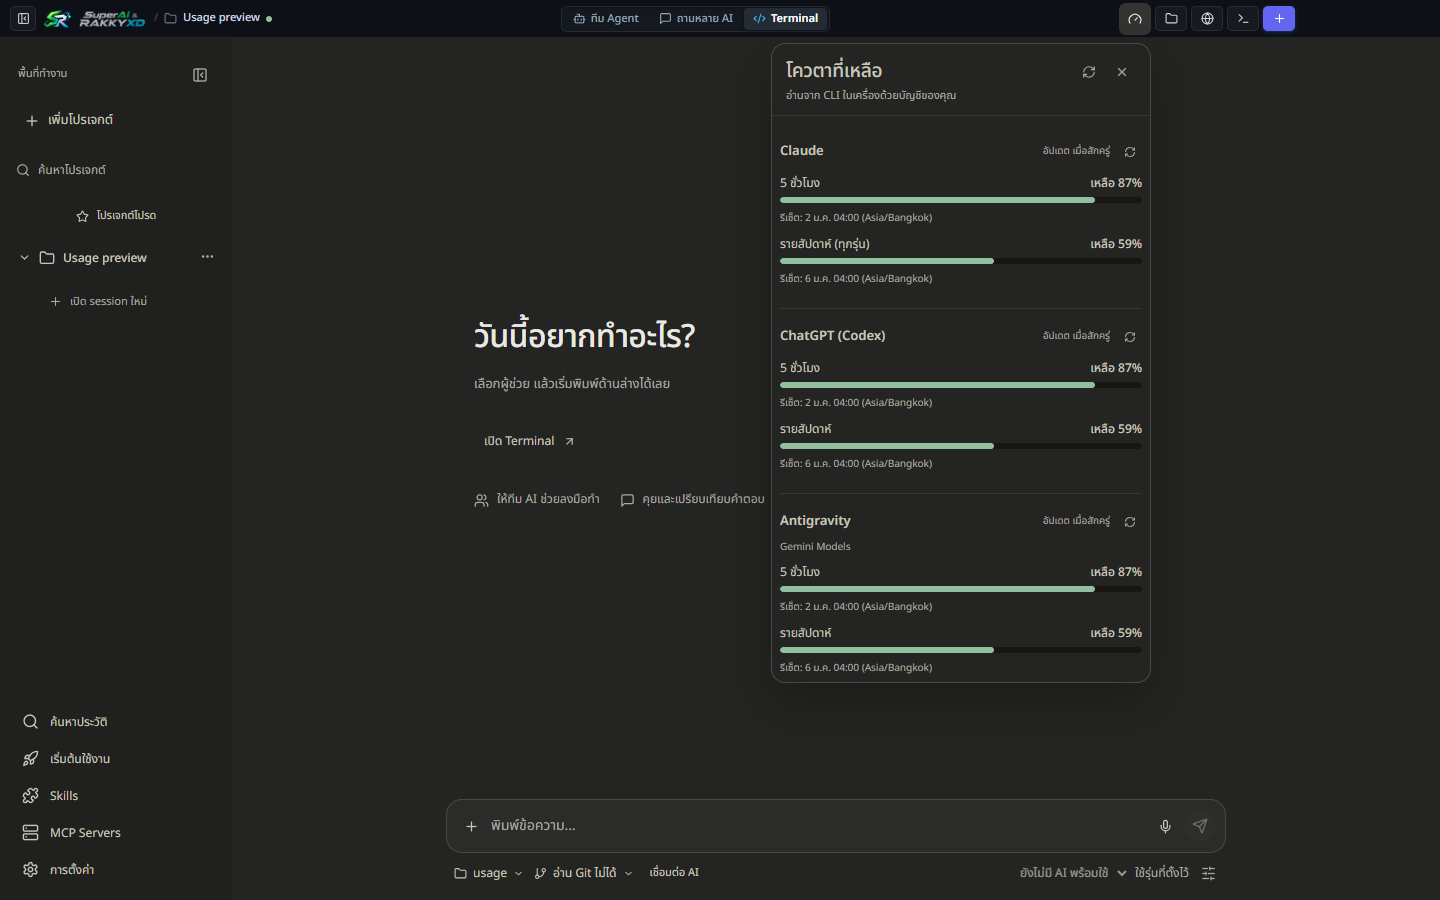
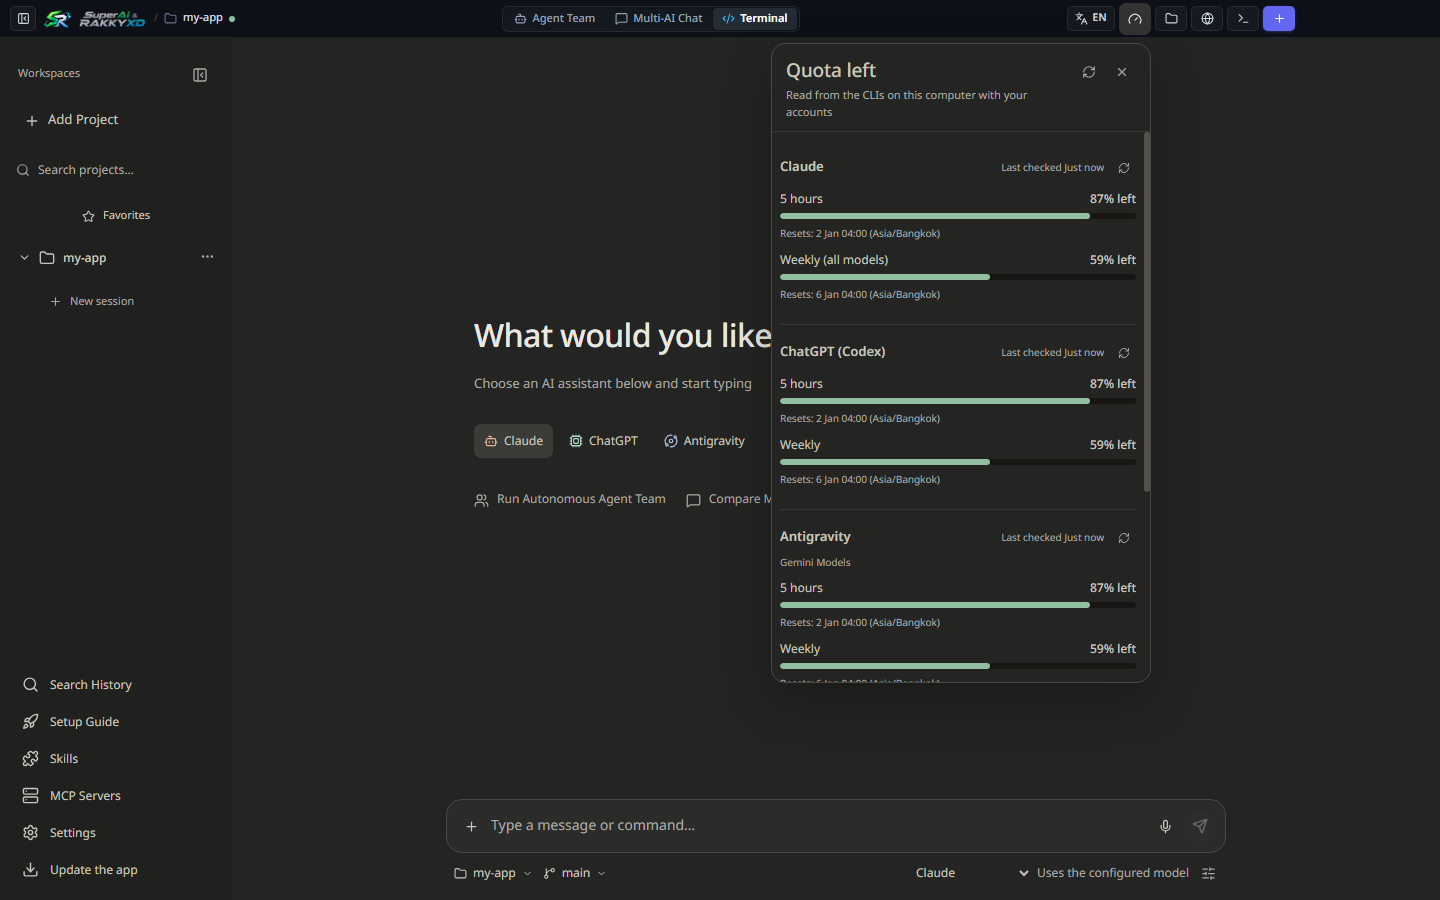
feat(i18n): English release notes, English screenshots, dates in the app language
- Release notes: each version is English, then "## ภาษาไทย" and the Thai notes. The update card
  shows the part in the app language; older apps show both. Added the v1.2.4 notes.
- README and website screenshots retaken from the real app in English; the Thai README and
  th.html use Thai ones in docs/images/th. scripts/readme-screenshots.mjs retakes them.
- Dates and times no longer always use Thai months: they follow the app language.
- "1 runs" reads "1 run".
- Speak-to-type defaults to the multilingual model outside the Thai app.

diff --git a/docs/th.html b/docs/th.html
@@ -19,7 +19,7 @@
 <meta property="og:title" content="SuperAi &amp; RAKKYXD — รวม AI coding tools ไว้ใน workspace เดียว">
 <meta property="og:description" content="โปรแกรม Desktop แบบ local-first สำหรับทำงานกับ AI coding assistants, Agent และโปรเจกต์">
 <meta property="og:url" content="https://rakgoorak.github.io/SuperAi-RAKKYXD/th.html">
-<meta property="og:image" content="https://rakgoorak.github.io/SuperAi-RAKKYXD/images/workspace.png">
+<meta property="og:image" content="https://rakgoorak.github.io/SuperAi-RAKKYXD/images/th/workspace.png">
 <meta property="og:image:type" content="image/png">
 <meta property="og:image:width" content="1280">
 <meta property="og:image:height" content="800">
@@ -27,7 +27,7 @@
 <meta name="twitter:card" content="summary_large_image">
 <meta name="twitter:title" content="SuperAi &amp; RAKKYXD — รวม AI coding tools ไว้ใน workspace เดียว">
 <meta name="twitter:description" content="โปรแกรม Desktop แบบโอเพนซอร์สสำหรับรวม AI coding tools ไว้ในที่เดียว">
-<meta name="twitter:image" content="https://rakgoorak.github.io/SuperAi-RAKKYXD/images/workspace.png">
+<meta name="twitter:image" content="https://rakgoorak.github.io/SuperAi-RAKKYXD/images/th/workspace.png">
 <meta name="twitter:image:alt" content="หน้าหลักของ SuperAi &amp; RAKKYXD">
 <meta name="theme-color" content="#242422">
 <link rel="icon" href="images/app-icon.png">
@@ -51,9 +51,9 @@
   "downloadUrl": "https://github.com/rakgoorak/SuperAi-RAKKYXD-releases/releases/latest",
   "license": "https://github.com/rakgoorak/SuperAi-RAKKYXD/blob/main/LICENSE",
   "screenshot": [
-    "https://rakgoorak.github.io/SuperAi-RAKKYXD/images/workspace.png",
-    "https://rakgoorak.github.io/SuperAi-RAKKYXD/images/agent.png",
-    "https://rakgoorak.github.io/SuperAi-RAKKYXD/images/chat.png"
+    "https://rakgoorak.github.io/SuperAi-RAKKYXD/images/th/workspace.png",
+    "https://rakgoorak.github.io/SuperAi-RAKKYXD/images/th/agent.png",
+    "https://rakgoorak.github.io/SuperAi-RAKKYXD/images/th/chat.png"
   ],
   "publisher": {
     "@type": "Organization",
@@ -147,8 +147,8 @@
 
     <figure class="hero-media">
       <picture>
-        <source media="(prefers-reduced-motion: reduce)" srcset="images/workspace.png">
-        <img src="images/product-tour.gif" alt="ภาพสาธิตหน้าจอ workspace, ทีม Agent และ Multi-AI Chat ของ SuperAi & RAKKYXD" width="1120" height="792" fetchpriority="high">
+        <source media="(prefers-reduced-motion: reduce)" srcset="images/th/workspace.png">
+        <img src="images/th/product-tour.gif" alt="ภาพสาธิตหน้าจอ workspace, ทีม Agent และ Multi-AI Chat ของ SuperAi & RAKKYXD" width="1120" height="792" fetchpriority="high">
       </picture>
       <figcaption><span>หน้าจอจริงจากโปรแกรม</span><span>Workspace · Agent · Chat</span></figcaption>
     </figure>
@@ -203,11 +203,11 @@
       </div>
       <div class="screen-pair">
         <figure class="screen">
-          <img src="images/agent.png" alt="หน้า Agent แสดง Main Agent และความคืบหน้าของงานจาก Sub-agents" width="1280" height="800" loading="lazy">
+          <img src="images/th/agent.png" alt="หน้า Agent แสดง Main Agent และความคืบหน้าของงานจาก Sub-agents" width="1280" height="800" loading="lazy">
           <figcaption>ติดตามความคืบหน้าของทีม Agent ได้ระหว่างทำงาน</figcaption>
         </figure>
         <figure class="screen">
-          <img src="images/chat.png" alt="หน้าต่าง Multi-AI Chat พร้อมระบุผู้ตอบแต่ละโมเดล" width="1100" height="760" loading="lazy">
+          <img src="images/th/chat.png" alt="หน้าต่าง Multi-AI Chat พร้อมระบุผู้ตอบแต่ละโมเดล" width="1100" height="760" loading="lazy">
           <figcaption>เปรียบเทียบคำตอบโดยรู้ว่าโมเดลใดเป็นผู้เขียน</figcaption>
         </figure>
       </div>
@@ -220,7 +220,7 @@
       </div>
       <div class="capability-layout">
         <figure class="usage-screen">
-          <img src="images/usage.png" alt="หน้าจอแสดงการใช้งานและโควตาของผู้ให้บริการใน SuperAi & RAKKYXD" width="1440" height="900" loading="lazy">
+          <img src="images/th/usage.png" alt="หน้าจอแสดงการใช้งานและโควตาของผู้ให้บริการใน SuperAi & RAKKYXD" width="1440" height="900" loading="lazy">
           <figcaption>รายละเอียดการใช้งานขึ้นอยู่กับผู้ให้บริการและบัญชีที่เลือก</figcaption>
         </figure>
         <ul class="capability-list">

diff --git a/packages/studio/client/src/i18n.ts b/packages/studio/client/src/i18n.ts
@@ -83,6 +83,7 @@ export const translations: Record<Locale, Record<string, string>> = {
     // Canvas & Empty States
     'canvas.workspace_room': 'ห้องทำงาน',
     'canvas.tasks_unit': 'งาน',
+    'canvas.tasks_unit_one': 'งาน',
     'canvas.running_unit': 'กำลังทำงาน',
     'canvas.agent_empty_title': 'บอกเป้าหมาย แล้วให้ทีมแบ่งงานกันทำ',
     'canvas.agent_empty_desc': 'พิมพ์เป้าหมายและเกณฑ์ตรวจรับด้านล่าง Main จะแจกงานให้ Sub-agent และคุณจะเห็นว่าแต่ละตัวกำลังทำอะไร',
@@ -219,6 +220,7 @@ export const translations: Record<Locale, Record<string, string>> = {
     // Canvas & Empty States
     'canvas.workspace_room': 'Workspace',
     'canvas.tasks_unit': 'runs',
+    'canvas.tasks_unit_one': 'run',
     'canvas.running_unit': 'running',
     'canvas.agent_empty_title': 'Describe your goal and let the AI Team divide & conquer',
     'canvas.agent_empty_desc': 'Enter your objective below. The Main planner delegates tasks to Sub-agents while you track live progress.',
@@ -355,6 +357,7 @@ export const translations: Record<Locale, Record<string, string>> = {
     // Canvas & Empty States
     'canvas.workspace_room': 'ワークスペース',
     'canvas.tasks_unit': '件',
+    'canvas.tasks_unit_one': '件',
     'canvas.running_unit': '実行中',
     'canvas.agent_empty_title': '目標を伝えて、AIチームにタスクを分担させましょう',
     'canvas.agent_empty_desc': '下に目標を入力すると、MainがSub-agentに作業を割り振り、進行状況をリアルタイム表示します。',
@@ -491,6 +494,7 @@ export const translations: Record<Locale, Record<string, string>> = {
     // Canvas & Empty States
     'canvas.workspace_room': '工作室',
     'canvas.tasks_unit': '项任务',
+    'canvas.tasks_unit_one': '项任务',
     'canvas.running_unit': '正在运行',
     'canvas.agent_empty_title': '输入目标，让 AI 团队自动拆解并协作完成',
     'canvas.agent_empty_desc': '在下方输入需求，主智能体 (Main) 会分配任务给子智能体 (Sub-agents) 并实时展示进度。',
@@ -614,6 +618,12 @@ void tellServer();
 
 export function getLocale(): Locale {
   return currentLocale;
+}
+
+const DATE_LOCALE: Record<Locale, string> = { th: 'th-TH', en: 'en-US', ja: 'ja-JP', zh: 'zh-CN' };
+/** For toLocale*String and Intl.DateTimeFormat: dates and times in the window's language. */
+export function dateLocale(): string {
+  return DATE_LOCALE[currentLocale];
 }
 
 /**

diff --git a/packages/studio/client/src/App.tsx b/packages/studio/client/src/App.tsx
@@ -6,7 +6,7 @@ import { RunActions } from "./components/RunActions";
 import { SlashMenu, type SlashMenuHandle } from "./components/SlashMenu";
 import { MentionMenu, type MentionMenuHandle } from "./components/MentionMenu";
 import { CommandPalette } from "./components/CommandPalette";
-import { useTranslation } from "./i18n";
+import { useTranslation, dateLocale } from "./i18n";
 import { useCallback, useEffect, useRef, useState } from "react";
 import {
   Folder,
@@ -1375,7 +1375,7 @@ export function App() {
                   <span className="count-badge">
                     {mode === "code"
                       ? `${visible.length} session`
-                      : `${conversation.length} ${t("canvas.tasks_unit", "งาน")}`}
+                      : `${conversation.length} ${t(conversation.length === 1 ? "canvas.tasks_unit_one" : "canvas.tasks_unit", "งาน")}`}
                   </span>
                   {mode === "code" && hiddenInWorkspace.length > 0 && (
                     <div className="hidden-sessions-bar" role="group" aria-label={tr("session ที่ซ่อนอยู่")}>
@@ -1502,7 +1502,7 @@ export function App() {
                           <span className="message-author">
                             {tr("คุณ")}{" "}
                             <time>
-                              {new Date(run.createdAt).toLocaleTimeString("th-TH", { hour: "2-digit", minute: "2-digit" })}
+                              {new Date(run.createdAt).toLocaleTimeString(dateLocale(), { hour: "2-digit", minute: "2-digit" })}
                             </time>
                           </span>
                           <p>{renderTextWithLinks(run.prompt)}</p>

diff --git a/packages/studio/client/src/components/HistoryPanel.tsx b/packages/studio/client/src/components/HistoryPanel.tsx
@@ -5,7 +5,7 @@ import { HEADLESS } from '../providers';
 import { chatHistoryEntries, recentConversations, runHistoryEntries, type HistoryEntry, type HistoryMessage } from '../historyEntries';
 import { providerIdentity } from '../providerIdentity';
 import { ProviderBadge } from './ProviderBadge';
-import { tr } from '../i18n';
+import { tr, dateLocale } from '../i18n';
 export type { HistoryEntry } from '../historyEntries';
 
 export function HistoryPanel({ workspaces, sessions, onSelect }: { workspaces: Workspace[]; sessions: Session[]; onSelect: (entry: HistoryEntry) => void }) {
@@ -52,7 +52,7 @@ export function HistoryPanel({ workspaces, sessions, onSelect }: { workspaces: W
     <div className="history-results">{matches.slice(0, 100).map(entry => {
       const start = needle ? Math.max(0, entry.snippet.toLowerCase().indexOf(needle) - 60) : 0;
       return <button key={`${entry.wsId}:${entry.sessionId || ''}:${entry.id}`} onClick={() => onSelect(entry)}>
-        <small>{workspaces.find(ws => ws.id === entry.wsId)?.name} · {modeLabels[entry.mode]} · {new Date(entry.at).toLocaleString('th-TH')}</small>
+        <small>{workspaces.find(ws => ws.id === entry.wsId)?.name} · {modeLabels[entry.mode]} · {new Date(entry.at).toLocaleString(dateLocale())}</small>
         <strong>{needle ? entry.text : entry.title || entry.text}</strong>
         <span className="history-providers">{entry.providers.map(id => <ProviderBadge key={id} provider={id} />)}</span>
         <span>{entry.snippet.slice(start, start + 180) || entry.text}</span>

diff --git a/packages/studio/test/release-notes.test.ts b/packages/studio/test/release-notes.test.ts
@@ -1,0 +1,21 @@
+import { test } from 'node:test';
+import assert from 'node:assert/strict';
+import fs from 'node:fs';
+import { notesInLanguage } from '../client/src/releaseNotes.js';
+
+const notes = '- **Faster chat:** answers appear sooner\n\n## ภาษาไทย\n\n- **แชทเร็วขึ้น:** คำตอบขึ้นเร็วขึ้น';
+
+test('the update card shows release notes in the app language', () => {
+  assert.equal(notesInLanguage(notes, 'en'), '- **Faster chat:** answers appear sooner');
+  assert.equal(notesInLanguage(notes, 'ja'), '- **Faster chat:** answers appear sooner');
+  assert.equal(notesInLanguage(notes, 'th'), '- **แชทเร็วขึ้น:** คำตอบขึ้นเร็วขึ้น');
+  assert.equal(notesInLanguage('- เดิมมีแต่ภาษาไทย', 'en'), '- เดิมมีแต่ภาษาไทย', 'older notes without the heading are shown whole');
+});
+
+test('the newest release notes have an English part and a Thai part', () => {
+  const newest = fs.readFileSync(new URL('../../../docs/RELEASE.md', import.meta.url), 'utf8').split(/^---\s*$/m)[0];
+  const english = notesInLanguage(newest, 'en'), thai = notesInLanguage(newest, 'th');
+  assert.notEqual(english, thai, 'docs/RELEASE.md: add "## ภาษาไทย" between the English and Thai notes');
+  assert.doesNotMatch(english.replace(/^#.*$/gm, ''), /[฀-๿]/, 'the English part has no Thai text');
+  assert.match(thai, /[฀-๿]/);
+});

diff --git a/packages/studio/client/src/components/UpdatePanel.tsx b/packages/studio/client/src/components/UpdatePanel.tsx
@@ -2,7 +2,8 @@ import { useCallback, useEffect, useState } from "react";
 import { Check, Download, ExternalLink, LoaderCircle, RefreshCw, RotateCw, X } from "lucide-react";
 import type { UpdateState } from "../desktop";
 import { Markdown } from "./Markdown";
-import { t } from "../i18n";
+import { t, getLocale } from "../i18n";
+import { notesInLanguage } from "../releaseNotes";
 import { tr } from '../i18n';
 
 /** Live update state from the desktop shell; null in the browser UI (no updater there). */
@@ -89,7 +90,7 @@ export function UpdatePanel({ state, onError }: { state: UpdateState | null; onE
       {state.notes && s === "available" && (
         <details className="update-notes" open>
           <summary>{tr("มีอะไรใหม่ใน v")}{state.latestVersion}</summary>
-          <Markdown text={state.notes} />
+          <Markdown text={notesInLanguage(state.notes, getLocale())} />
         </details>
       )}
       <div className="update-actions">
@@ -132,7 +133,7 @@ export function UpdatePanel({ state, onError }: { state: UpdateState | null; onE
       {state.notes && pending(s) && (
         <details className="update-notes" open>
           <summary>{tr("มีอะไรใหม่ใน v")}{state.latestVersion}</summary>
-          <Markdown text={state.notes} />
+          <Markdown text={notesInLanguage(state.notes, getLocale())} />
         </details>
       )}
       <div className="update-actions">

diff --git a/packages/studio/client/src/chatFormat.ts b/packages/studio/client/src/chatFormat.ts
@@ -1,4 +1,4 @@
-import { tr } from './i18n';
+import { tr, dateLocale } from './i18n';
 // Labels shared by the chat view and its message actions.
 
 /** "เมื่อสักครู่", "5 นาทีที่แล้ว", "14:32" or "23 ต.ค. 14:32", like Claude's message times. */
@@ -7,8 +7,8 @@ export function timeLabel(at: number, now = Date.now()): string {
   if (seconds < 60) return tr("เมื่อสักครู่");
   if (seconds < 3600) return tr`${Math.floor(seconds / 60)} นาทีที่แล้ว`;
   const date = new Date(at), today = new Date(now);
-  const clock = date.toLocaleTimeString('th-TH', { hour: '2-digit', minute: '2-digit' });
-  return date.toDateString() === today.toDateString() ? clock : `${date.toLocaleDateString('th-TH', { day: 'numeric', month: 'short' })} ${clock}`;
+  const clock = date.toLocaleTimeString(dateLocale(), { hour: '2-digit', minute: '2-digit' });
+  return date.toDateString() === today.toDateString() ? clock : `${date.toLocaleDateString(dateLocale(), { day: 'numeric', month: 'short' })} ${clock}`;
 }
 
 /** 950 → "950", 1234 → "1.2k", like Claude's live token count. */

diff --git a/packages/studio/client/src/usageDisplay.ts b/packages/studio/client/src/usageDisplay.ts
@@ -1,4 +1,4 @@
-import { tr } from './i18n';
+import { tr, dateLocale } from './i18n';
 export interface UsageWindow {
   label: string; group?: string; remainingPercent: number | null;
   resetsAt?: string; resetsText?: string; note?: string;
@@ -16,7 +16,7 @@ export function usageResetLabel(w: UsageWindow, now = Date.now(), zone = Intl.Da
   if (w.resetsAt && Number.isFinite(Date.parse(w.resetsAt))) {
     const at = new Date(w.resetsAt);
     if (at.getTime() <= now) return tr("รีเซ็ตแล้ว");
-    const parts = new Intl.DateTimeFormat('th-TH', {
+    const parts = new Intl.DateTimeFormat(dateLocale(), {
       timeZone: zone, day: 'numeric', month: 'short', hour: '2-digit', minute: '2-digit', hourCycle: 'h23',
     }).formatToParts(at);
     const part = (type: Intl.DateTimeFormatPartTypes) => parts.find(p => p.type === type)?.value || '';

diff --git a/packages/studio/client/src/voice/speech.ts b/packages/studio/client/src/voice/speech.ts
@@ -1,4 +1,5 @@
 import { SPEECH_MODELS, type SpeechModelId } from "./models";
+import { getLocale } from "../i18n";
 
 // Settings for speak-to-type (the composer mic).
 export interface VoiceSettings {
@@ -8,7 +9,11 @@ export interface VoiceSettings {
 }
 
 const KEY = "superai-voice-settings";
-export const defaultVoiceSettings: VoiceSettings = { model: "thai", language: "th", microphone: "" };
+// Thai app: the Thai-tuned model; other languages: the multilingual model, listening for that language.
+const locale = getLocale();
+export const defaultVoiceSettings: VoiceSettings = locale === "th"
+  ? { model: "thai", language: "th", microphone: "" }
+  : { model: "small", language: locale === "en" ? "en" : "auto", microphone: "" };
 
 export function loadVoiceSettings(): VoiceSettings {
   try {

diff --git a/packages/studio/client/src/releaseNotes.ts b/packages/studio/client/src/releaseNotes.ts
@@ -1,0 +1,15 @@
+/**
+ * Release notes are written in English first, then a `## ภาษาไทย` heading and the same notes in
+ * Thai (see docs/RELEASE.md). The update card shows only the part in the window's language:
+ * Thai for the Thai app, English for the others. Notes without the heading are shown whole.
+ * Older apps simply show both parts, one after the other.
+ */
+const THAI_HEADING = /^##\s*ภาษาไทย\s*$/m;
+
+export function notesInLanguage(notes: string, locale: string): string {
+  const at = notes.search(THAI_HEADING);
+  if (at < 0) return notes;
+  const english = notes.slice(0, at).trim();
+  const thai = notes.slice(at).replace(THAI_HEADING, '').trim();
+  return (locale === 'th' ? thai || english : english || thai);
+}

diff --git a/packages/studio/client/src/components/ChatView.tsx b/packages/studio/client/src/components/ChatView.tsx
@@ -24,7 +24,7 @@ import { loadNextPromptSettings, predictNextPrompt, publishChatRunning, publishN
 import '../chat-idle.css';
 import '../chat-permission.css';
 import '../chat-task-progress.css';
-import { tr } from '../i18n';
+import { tr, dateLocale } from '../i18n';
 
 // Mirrors server/CliChat.ts.
 type ToolKind = 'command' | 'read' | 'edit' | 'search' | 'web' | 'plan' | 'other';
@@ -251,7 +251,7 @@ function UserMessageItem({
             <time
               className="chat-user-time"
               dateTime={new Date(block.at).toISOString()}
-              title={new Date(block.at).toLocaleString('th-TH')}
+              title={new Date(block.at).toLocaleString(dateLocale())}
             >
               {timeLabel(block.at, now)}
             </time>

diff --git a/packages/studio/client/src/components/ResponseActions.tsx b/packages/studio/client/src/components/ResponseActions.tsx
@@ -20,7 +20,7 @@ import {
   formatSessionLabel,
   getQuickAgentTargets,
 } from '../handoffUtils';
-import { tr } from '../i18n';
+import { tr, dateLocale } from '../i18n';
 
 export interface ResponseActionsProps {
   text?: string;
@@ -337,7 +337,7 @@ export function ResponseActions({
           <time
             className="response-time"
             dateTime={new Date(at).toISOString()}
-            title={new Date(at).toLocaleString('th-TH')}
+            title={new Date(at).toLocaleString(dateLocale())}
           >
             {timeLabel(at, now)}
           </time>
